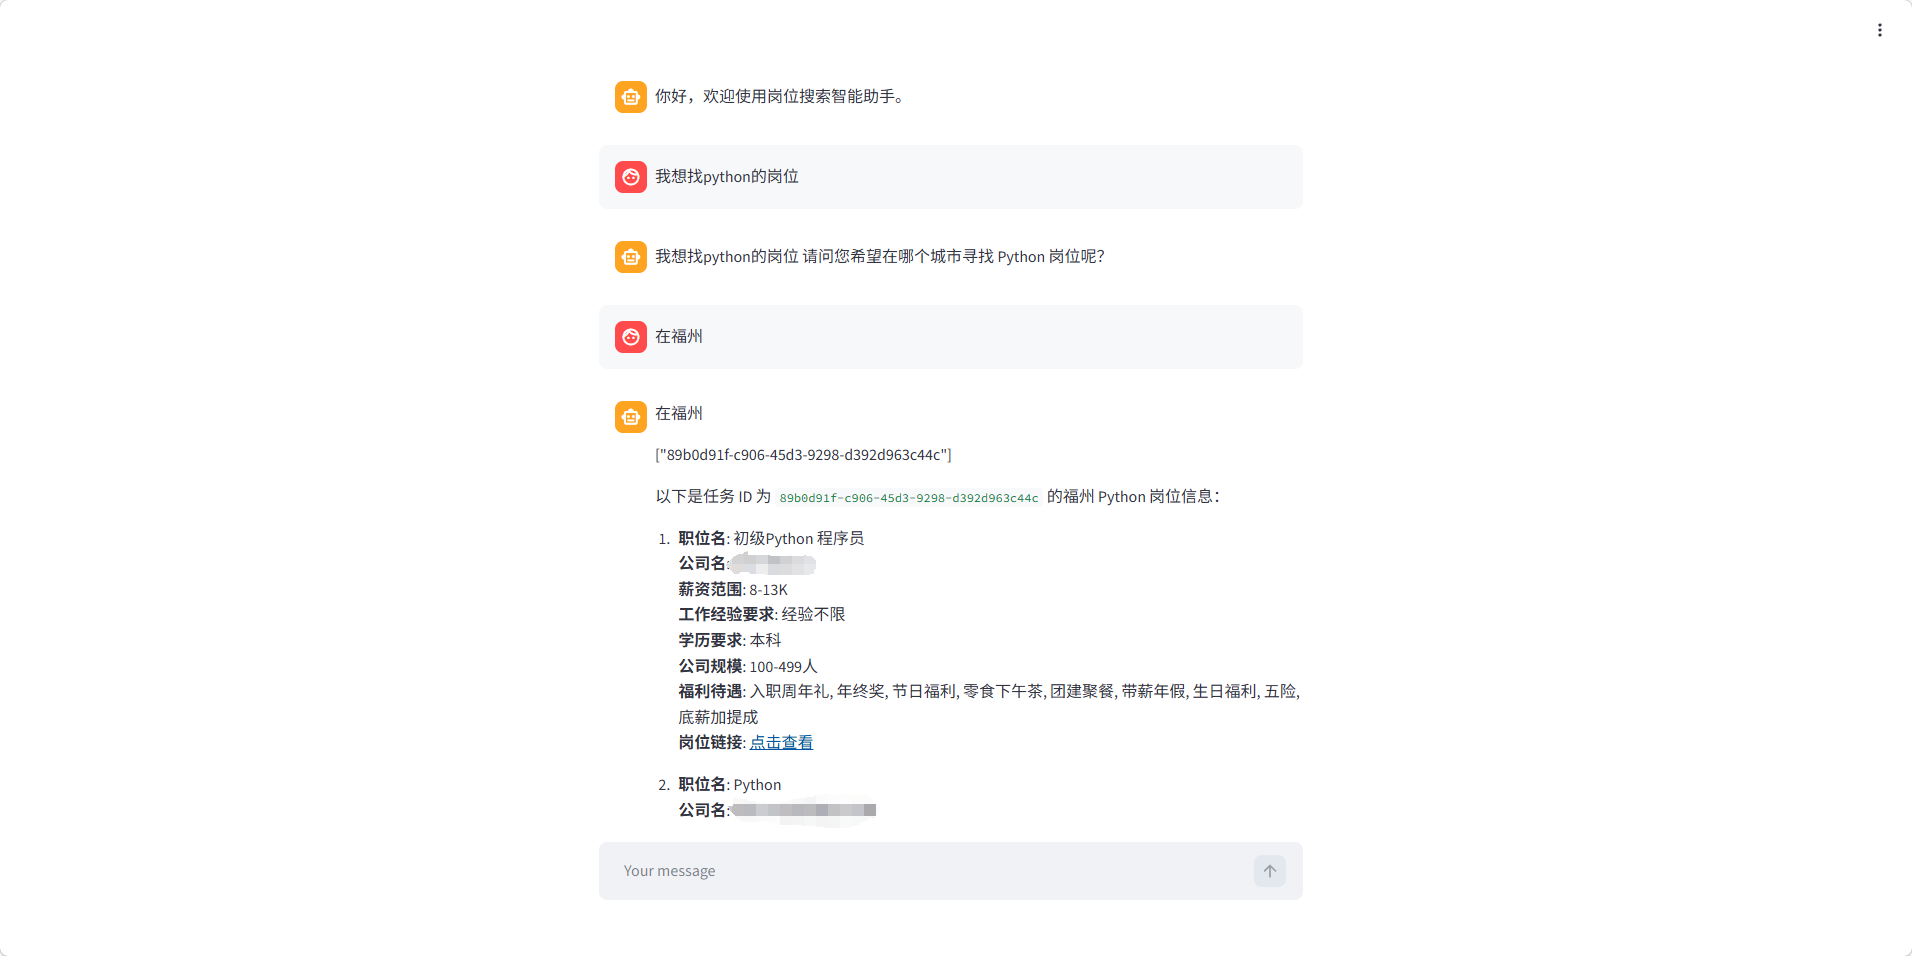
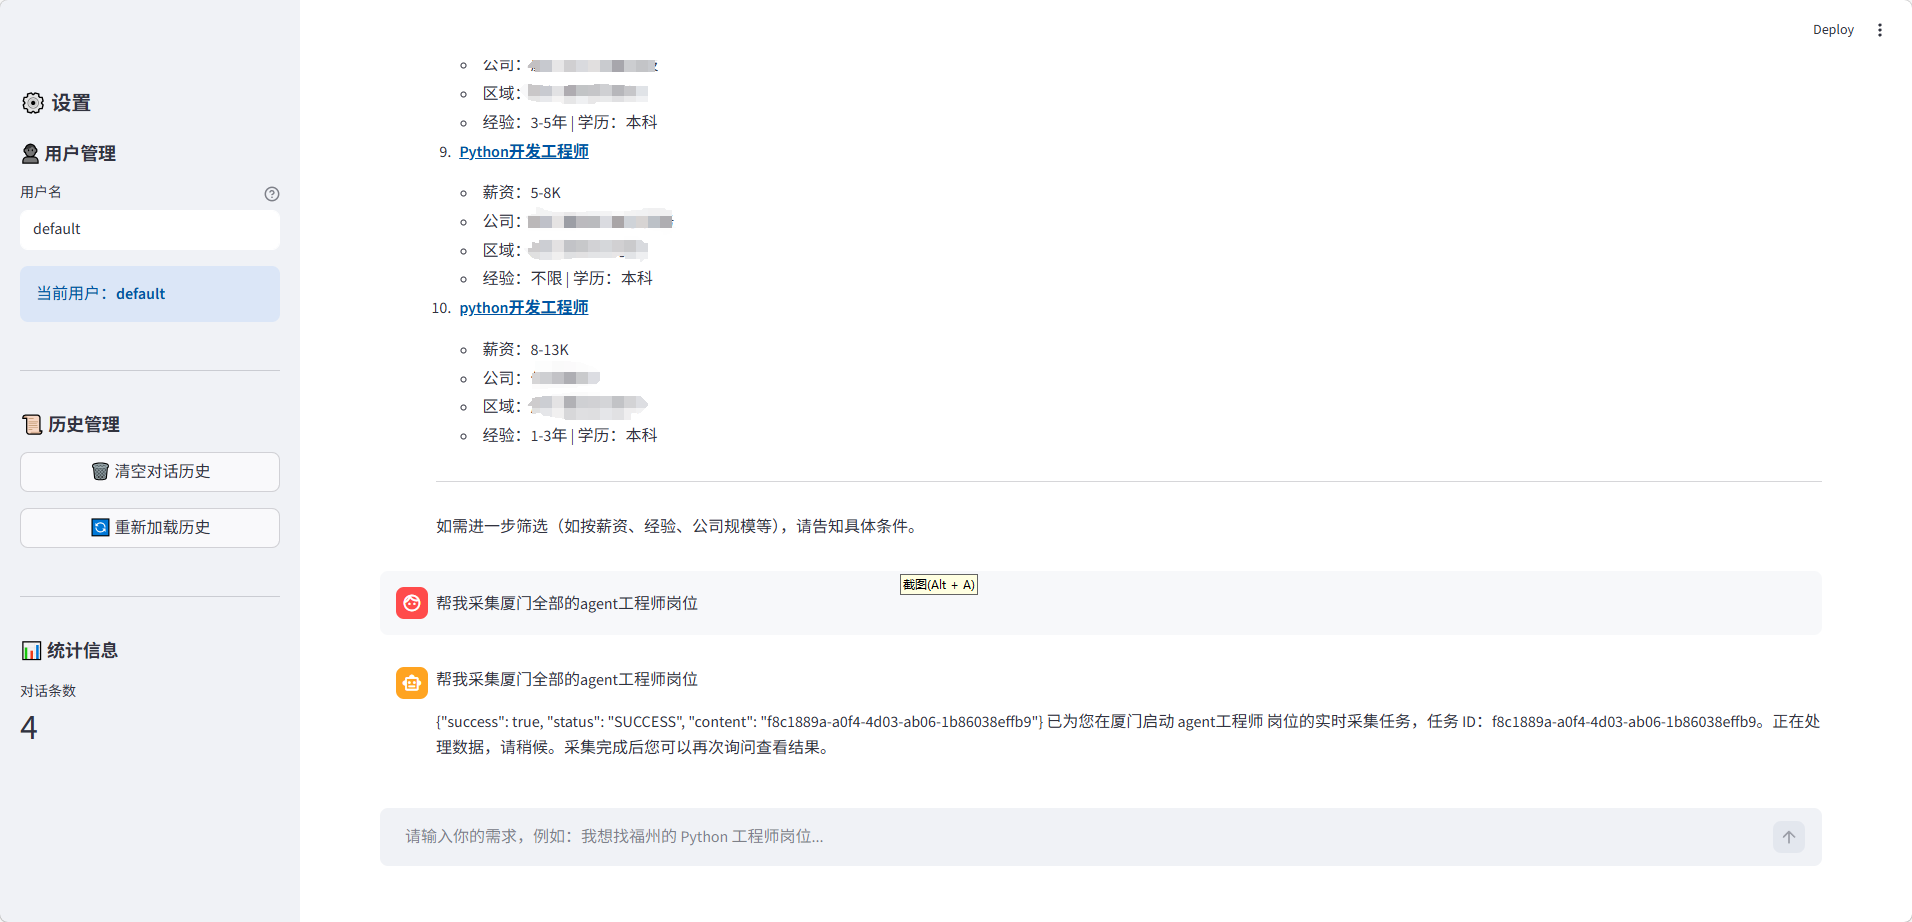
优化提示词和前端界面

diff --git a/Agent/JobAgentProject/app.py b/Agent/JobAgentProject/app.py
@@ -1,58 +1,128 @@
 import time
-
 import streamlit as st
 
 from agent.agent_react import AgentReact
-from utils.history_tool import load_user_history, save_user_history
+from utils.history_tool import load_user_history, save_user_history, ensure_user_history_dir
+import os
+import json
 
 # 启动命令：streamlit run app.py
 
-st.title("岗位搜索智能助手")
-# 分隔符
+# 页面基础配置
+st.set_page_config(
+    page_title="岗位搜索智能助手",
+    page_icon="🔍",
+    layout="wide",
+    initial_sidebar_state="expanded"
+)
+
+# 标题和描述
+col1, col2 = st.columns([3, 1])
+with col1:
+    st.title("🔍 岗位搜索智能助手")
+with col2:
+    st.caption(f"👤 用户：{st.session_state.get('user_id', 'default')}")
+
+st.markdown("智能匹配您的理想岗位，支持多条件搜索和推荐")
 st.divider()
 
-# 生成或获取用户 ID（支持自定义用户名）
-if "user_id" not in st.session_state:
-    # 可以通过 URL 参数 ?user=test 或者在侧边栏输入自定义用户名
-    url_params = st.query_params
-    custom_user = url_params.get("user", "")
-
-    if custom_user:
+# ==================== 侧边栏配置 ====================
+with st.sidebar:
+    st.header("⚙ 设置")
+    
+    # 用户管理
+    st.subheader("👤 用户管理")
+    custom_user = st.text_input(
+        "用户名",
+        value=st.session_state.get("user_id", "default"),
+        help="输入自定义用户名切换用户"
+    )
+    
+    if custom_user and custom_user != st.session_state.get("user_id"):
         st.session_state["user_id"] = custom_user
-    else:
-        st.session_state["user_id"] = "default"
+        st.session_state["agent"] = AgentReact(user_id=custom_user)
+        st.rerun()
+    
+    # 显示当前用户
+    st.info(f"当前用户：**{st.session_state['user_id']}**")
+    
+    st.divider()
+    
+    # 历史对话管理
+    st.subheader("📜 历史管理")
+    
+    if st.button("🗑 清空对话历史", use_container_width=True):
+        user_id = st.session_state["user_id"]
+        user_dir = ensure_user_history_dir(user_id)
+        history_file = os.path.join(user_dir, "history.json")
+        
+        if os.path.exists(history_file):
+            with open(history_file, 'w', encoding='utf-8') as f:
+                json.dump([], f, ensure_ascii=False)
+            st.success("✅ 历史已清空！")
+            st.session_state["message"] = [
+                {"role": "ai", "content": "你好，欢迎使用岗位搜索智能助手。"}
+            ]
+            time.sleep(1)
+            st.rerun()
+        else:
+            st.warning("暂无历史记录")
+    
+    if st.button("🔄 重新加载历史", use_container_width=True):
+        loaded_history = load_user_history(st.session_state["user_id"], limit=20)
+        if loaded_history:
+            st.session_state["message"] = loaded_history
+            st.success("✅ 历史已重新加载！")
+            time.sleep(1)
+            st.rerun()
+    
+    st.divider()
+    
+    # 统计信息
+    st.subheader("📊 统计信息")
+    history_count = len(load_user_history(st.session_state["user_id"], limit=100))
+    st.metric("对话条数", history_count)
 
-        st.info(f"当前用户：{st.session_state['user_id']}")
-
-# 初始化 Agent（带用户 ID）
+# ==================== 初始化 Agent ====================
 if "agent" not in st.session_state:
     st.session_state["agent"] = AgentReact(user_id=st.session_state["user_id"])
-# 获取历史消息显示
-if "message" not in st.session_state:
-    # 从文件加载历史对话
-    loaded_history = load_user_history(st.session_state["user_id"], limit=20)
 
+# 初始化消息历史
+if "message" not in st.session_state:
+    loaded_history = load_user_history(st.session_state["user_id"], limit=20)
+    
     if loaded_history:
         st.session_state["message"] = loaded_history
     else:
         st.session_state["message"] = [
             {
                 "role": "ai",
-                "content": "你好，欢迎使用岗位搜索智能助手。",
+                "content": "👋 你好，欢迎使用岗位搜索智能助手！我可以帮你搜索岗位信息、分析岗位需求等。请告诉我你的需求吧～",
             }
         ]
 
-# 显示历史消息
-for message in st.session_state["message"]:
-    # 跳过 timestamp 字段（不显示）
+# ==================== 显示欢迎卡片（如果是第一条消息） ====================
+if len(st.session_state["message"]) <= 1:
+    st.info("✨ **欢迎使用岗位搜索智能助手**\n\n"
+            "**我可以帮助你：**\n"
+            "- 🔍 搜索特定地区、职位的岗位信息\n"
+            "- 📊 分析岗位需求和薪资水平\n"
+            "在下方输入框告诉我你的需求吧！")
+
+# ==================== 显示历史消息 ====================
+for idx, message in enumerate(st.session_state["message"]):
     content = message.get("content", "")
     role = message.get("role", "ai")
+    
     if content:
-        st.chat_message(role).write(content)
+        with st.chat_message(role):
+            st.write(content)
 
-prompt = st.chat_input()
+# ==================== 用户输入处理 ====================
+prompt = st.chat_input("请输入你的需求，例如：我想找福州的 Python 工程师岗位...")
 
 if prompt:
+    # 显示用户消息
     st.chat_message("human").write(prompt)
     st.session_state["message"].append(
         {
@@ -61,34 +131,42 @@ if prompt:
         }
     )
     save_user_history(st.session_state["user_id"], "human", prompt)
+    
     stream_list = []
-    with st.spinner("思考中..."):
-        agent = st.session_state["agent"]
-
-        # 获取历史对话（用于上下文）
-        history = load_user_history(st.session_state["user_id"], limit=10)
-        # 设置流式输出回复
-        res = agent.execute_stream(prompt, history=history)
-
-        def capture(chunks, cache):
-            for chunk in chunks:
-                cache.append(chunk)
-                # 设置单字流式输出的延迟
-                for char in chunk:
-                    time.sleep(0.01)
-                    yield char
-
-
-        st.chat_message("ai").write_stream(capture(chunks=res, cache=stream_list))
-        ai_response = "".join(stream_list)
-
-        # 保存 AI 回复到历史
-        save_user_history(st.session_state["user_id"], "ai", ai_response)
-
-        st.session_state["message"].append(
-            {
-                "role": "ai",
-                "content": "".join(stream_list),
-            }
-        )
-        st.rerun()
+    
+    # 使用容器包装思考状态
+    with st.container():
+        with st.spinner("🤔 正在搜索中，请稍候..."):
+            agent = st.session_state["agent"]
+            
+            # 获取历史对话（用于上下文）
+            history = load_user_history(st.session_state["user_id"], limit=10)
+            
+            # 设置流式输出回复
+            res = agent.execute_stream(prompt, history=history)
+            
+            def capture(chunks, cache):
+                for chunk in chunks:
+                    cache.append(chunk)
+                    # 设置单字流式输出的延迟
+                    for char in chunk:
+                        time.sleep(0.01)
+                        yield char
+            
+            # 显示 AI 回复
+            with st.chat_message("ai"):
+                response = st.write_stream(capture(chunks=res, cache=stream_list))
+                ai_response = response
+            
+            # 保存 AI 回复到历史
+            save_user_history(st.session_state["user_id"], "ai", ai_response)
+            
+            st.session_state["message"].append(
+                {
+                    "role": "ai",
+                    "content": ai_response,
+                }
+            )
+    
+    # 自动滚动到底部
+    st.rerun()
